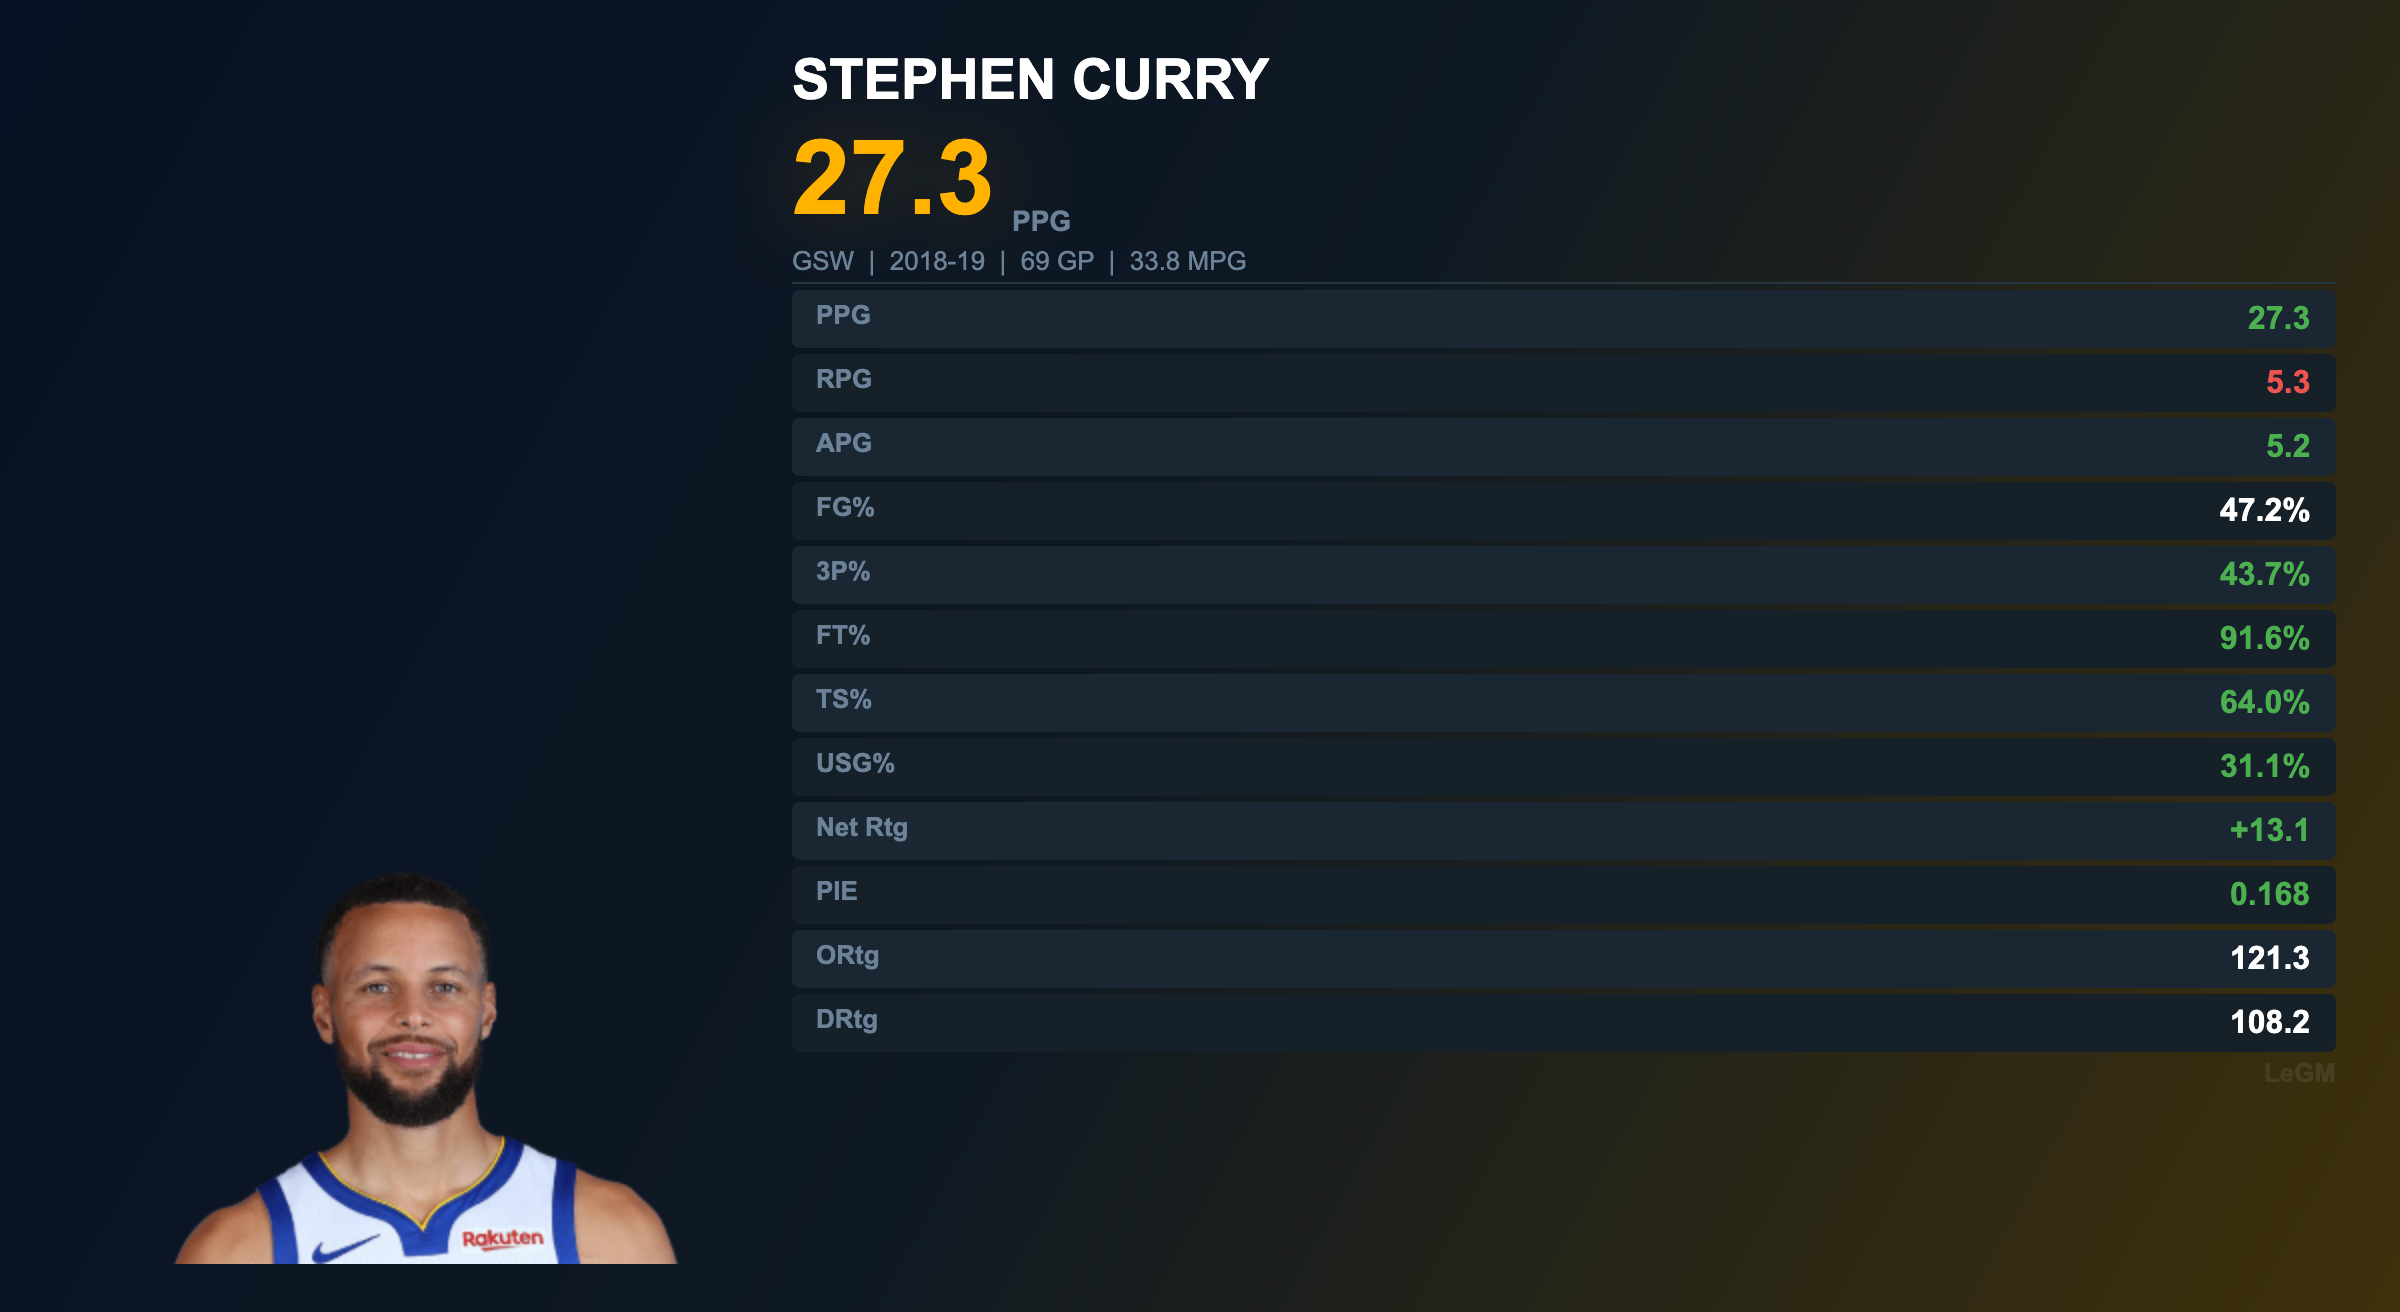
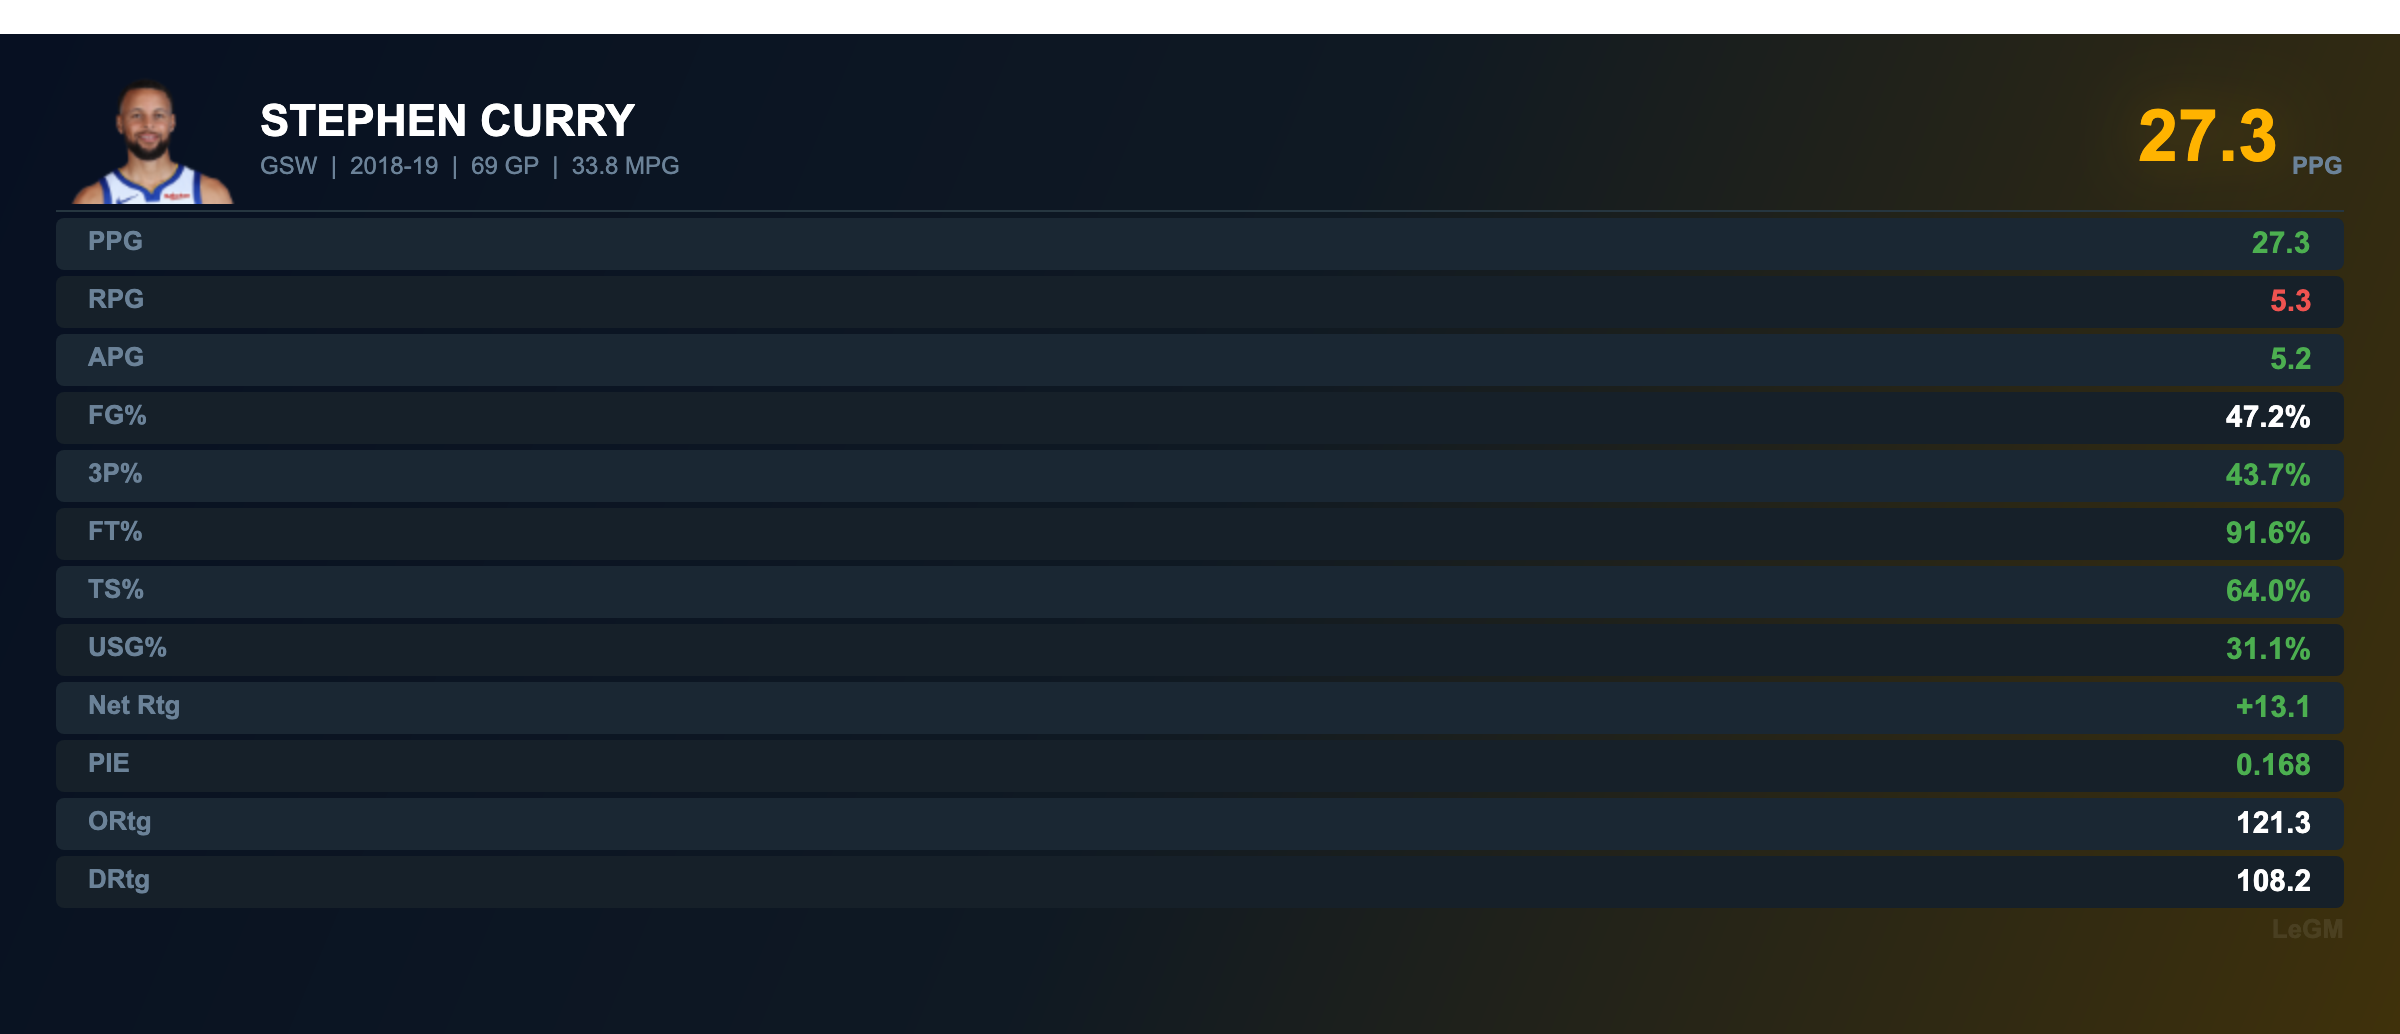
docs: regenerate demo images and update README references
Replace old live/test chart images with freshly generated demos.
Add LeBron 2016 stat card and Finals G5-7 flexible chart to README.

diff --git a/src/legm/stats/plots.py b/src/legm/stats/plots.py
@@ -102,7 +102,8 @@ _LABEL_TO_KEY: dict[str, str] = {
 }
 
 _CANVAS_W = 1200
-_HEADSHOT_SIZE = 120
+_HEADSHOT_BADGE = 56
+_HEADSHOT_CARD = 90
 
 # -- Headshot cache --
 _headshot_cache: dict[int, str | None] = {}
@@ -165,7 +166,7 @@ def _fetch_headshot(player_id: int) -> str | None:
         return None
 
 
-def _headshot_image(player_id: int, size: int = _HEADSHOT_SIZE) -> Image | None:
+def _headshot_image(player_id: int, size: int = _HEADSHOT_BADGE) -> Image | None:
     """Return a PicTex Image builder for the player headshot, or None."""
     path = _fetch_headshot(player_id)
     if path is None:
@@ -345,47 +346,44 @@ def _build_comparison_table(
 ) -> bytes:
     """Build and render a comparison table with headshots and team gradient."""
     num_rows = len(rows)
-    canvas_h = 400 + (num_rows * 45)
+    canvas_h = 170 + (num_rows * 40)
 
     bg = _dual_team_gradient(team_a, team_b) if team_a and team_b else None
     canvas = _make_canvas(canvas_h, background=bg)
 
-    # -- Header row: [headshot_a] [title block] [headshot_b] --
-    title_block = (
+    # -- Header: [badge_a] Title [badge_b] on one compact line --
+    headshot_a = (
+        _headshot_image(player_id_a, _HEADSHOT_BADGE) if player_id_a else None
+    )
+    headshot_b = (
+        _headshot_image(player_id_b, _HEADSHOT_BADGE) if player_id_b else None
+    )
+
+    title_col = (
         Column(
-            _header_text(title, size=26),
+            _header_text(title, size=24),
             _subtitle_text(subtitle) if subtitle else Text("").size(height=0),
         )
         .flex_grow(1)
-        .gap(4)
+        .gap(2)
         .align_items("center")
         .justify_content("center")
     )
 
-    header_children: list[Column | Row | Text | Image] = []
-
-    headshot_a = _headshot_image(player_id_a, _HEADSHOT_SIZE) if player_id_a else None
-    headshot_b = _headshot_image(player_id_b, _HEADSHOT_SIZE) if player_id_b else None
-
+    header_parts: list[Column | Row | Text | Image] = []
     if headshot_a:
-        header_children.append(headshot_a)
-    else:
-        header_children.append(Row().size(width=_HEADSHOT_SIZE))
-
-    header_children.append(title_block)
-
+        header_parts.append(headshot_a)
+    header_parts.append(title_col)
     if headshot_b:
-        header_children.append(headshot_b)
-    else:
-        header_children.append(Row().size(width=_HEADSHOT_SIZE))
+        header_parts.append(headshot_b)
 
     header_row = (
-        Row(*header_children)
+        Row(*header_parts)
         .size(width="100%")
         .padding(0, 24)
         .align_items("center")
         .justify_content("center")
-        .gap(16)
+        .gap(12)
     )
 
     children: list[Column | Row | Text | Image] = [header_row]
@@ -528,70 +526,67 @@ def generate_stat_card(
         )
 
     num_stat_rows = len(stat_rows)
-    canvas_h = max(400, 200 + (num_stat_rows * 38))
+    canvas_h = 140 + (num_stat_rows * 30)
 
     bg = _team_gradient(stats.team)
     canvas = _make_canvas(canvas_h, background=bg)
 
-    # -- Left column: headshot --
-    headshot = _headshot_image(stats.player_id, size=280)
-    if headshot:
-        left_col = (
-            Column(headshot)
-            .size(width="30%", height="100%")
-            .align_items("center")
-            .justify_content("end")
+    children: list[Column | Row | Text | Image] = []
+
+    # -- Header: [headshot badge] NAME  |  hero PPG --
+    headshot = _headshot_image(stats.player_id, size=_HEADSHOT_CARD)
+
+    name_block = (
+        Column(
+            Text(stats.player_name.upper())
+            .font_size(22)
+            .font_weight(700)
+            .color(_TEXT_BRIGHT),
+            Text(
+                f"{stats.team}  |  {stats.season}  |  "
+                f"{stats.games_played} GP  |  {stats.mpg} MPG"
+            )
+            .font_size(12)
+            .color(_TEXT_DIM),
         )
-    else:
-        left_col = Column().size(width="30%")
-
-    # -- Right column: name, hero stat, meta, stat rows --
-    right_children: list[Column | Row | Text | Image] = []
-
-    # Player name
-    right_children.append(
-        Text(stats.player_name.upper())
-        .font_size(28)
-        .font_weight(700)
-        .color(_TEXT_BRIGHT)
-        .text_align(TextAlign.LEFT)
-        .size(width="100%")
+        .gap(2)
+        .justify_content("center")
     )
 
-    # Hero PPG
-    hero = (
+    hero_block = (
         Row(
             Text(f"{stats.ppg}")
-            .font_size(52)
+            .font_size(36)
             .font_weight(700)
             .color(_GOLD)
             .text_shadows(
-                Shadow(offset=(0, 0), blur_radius=20, color="#ffb30040"),
+                Shadow(offset=(0, 0), blur_radius=16, color="#ffb30040"),
             ),
-            Text("PPG").font_size(14).color(_TEXT_DIM).font_weight(700),
+            Text("PPG").font_size(12).color(_TEXT_DIM).font_weight(700),
         )
-        .gap(8)
+        .gap(6)
         .align_items("end")
+    )
+
+    header_parts: list[Column | Row | Text | Image] = []
+    if headshot:
+        header_parts.append(headshot)
+    header_parts.append(name_block)
+    # Push hero stat to the right
+    spacer = Row().flex_grow(1)
+    header_parts.append(spacer)
+    header_parts.append(hero_block)
+
+    header_row = (
+        Row(*header_parts)
         .size(width="100%")
+        .align_items("center")
+        .gap(12)
     )
-    right_children.append(hero)
+    children.append(header_row)
+    children.append(_divider())
 
-    # Meta line
-    meta = (
-        f"{stats.team}  |  {stats.season}  |  "
-        f"{stats.games_played} GP  |  {stats.mpg} MPG"
-    )
-    right_children.append(
-        Text(meta)
-        .font_size(13)
-        .color(_TEXT_DIM)
-        .text_align(TextAlign.LEFT)
-        .size(width="100%")
-    )
-
-    right_children.append(_divider())
-
-    # Stat rows
+    # -- Stat rows: two-column grid for density --
     for i, (label, value, color) in enumerate(stat_rows):
         row_bg = _ROW_EVEN if i % 2 == 0 else _ROW_ODD
         row = (
@@ -601,28 +596,26 @@ def generate_stat_card(
                 .font_weight(700)
                 .color(_TEXT_DIM)
                 .flex_grow(1),
-                Text(value).font_size(16).font_weight(700).color(color),
+                Text(value).font_size(15).font_weight(700).color(color),
             )
             .size(width="100%")
-            .padding(5, 12)
+            .padding(4, 16)
             .background_color(row_bg)
             .border_radius(4)
         )
-        right_children.append(row)
+        children.append(row)
 
-    right_children.append(_watermark())
+    children.append(_watermark())
 
-    right_col = Column(*right_children).flex_grow(1).gap(3).justify_content("start")
-
-    # -- Main layout: left + right --
-    main_row = (
-        Row(left_col, right_col)
+    card = (
+        Column(*children)
         .size(width="100%", height="100%")
-        .gap(24)
-        .padding(24, 32)
+        .padding(20, 28)
+        .gap(3)
+        .justify_content("start")
     )
 
-    return _render_to_bytes(canvas, main_row)
+    return _render_to_bytes(canvas, card)
 
 
 # ---------------------------------------------------------------------------
@@ -674,7 +667,7 @@ def generate_flexible_chart(chart_data: ChartData) -> bytes:
 def _render_single_chart(chart_data: ChartData) -> bytes:
     """Render single-entity chart with dynamic height and tighter spacing."""
     num_rows = len(chart_data.rows)
-    canvas_h = 200 + (num_rows * 45)
+    canvas_h = 150 + (num_rows * 40)
 
     canvas = _make_canvas(canvas_h)
 

diff --git a/README.md b/README.md
@@ -6,7 +6,7 @@ An AI-powered NBA take analyzer that fact-checks basketball opinions with real s
 >
 > "Bro averaged 25.7/7.3/8.3 last season on 54% TS at age 40. Your take is washed, not LeBron. Respectfully."
 
-![KD vs Curry comparison chart](charts/live_kd_vs_steph.png)
+![KD vs Curry comparison chart](charts/demo_kd_vs_steph.png)
 
 ## How It Works
 
@@ -32,7 +32,9 @@ The agent runs a multi-turn tool-use loop: the LLM decides which stats to look u
 
 ## Example Output
 
-![KD Warriors Finals comparison](charts/live_single_take.png)
+| Stat Card | Flexible Comparison |
+|-----------|-------------------|
+| ![LeBron stat card](charts/demo_lebron_card_2016.png) | ![2016 Finals Games 5-7](charts/demo_finals_g5_7_flexible.png) |
 
 ## Quick Start
 
